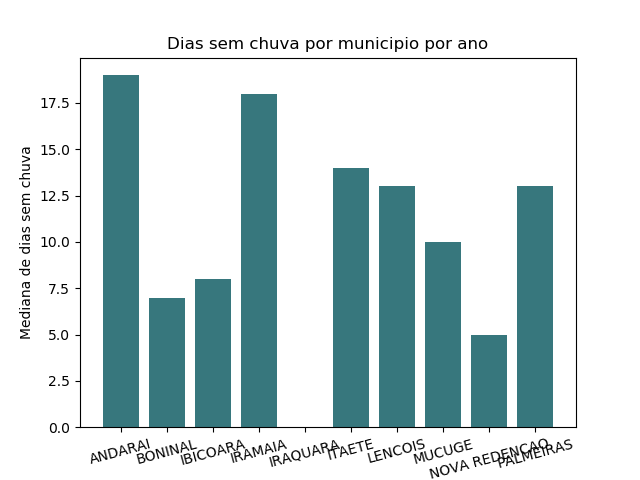
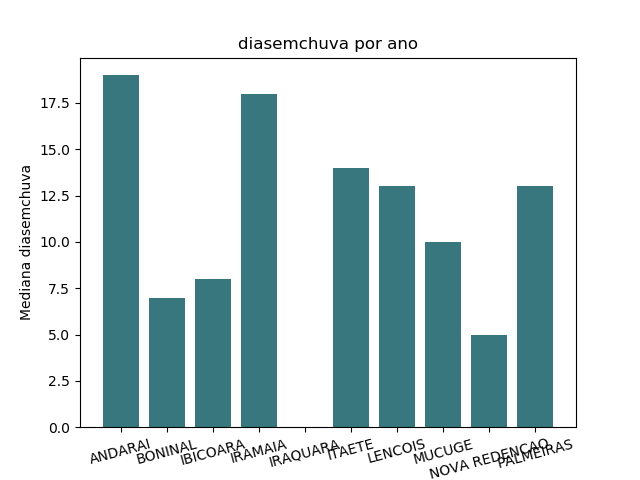
Add plot_Automaticas
Add plot_Automaticas

Changed region(s): [[0.25, 0.0625, 0.75, 0.125], [0.0312, 0.3125, 0.0625, 0.7188]]

diff --git a/estacoes/analise_Dados_Meteorologicos_Automaticas.py b/estacoes/analise_Dados_Meteorologicos_Automaticas.py
@@ -1,0 +1,100 @@
+# -- coding: utf-8 --
+"""
+Created on Mon Sep 14 19:26:56 2020
+
+@author: Adlla Katarine
+"""
+
+import pandas as pd
+import matplotlib.pyplot as plt
+import os as aqv
+import numpy as np
+
+
+def main():
+    lista_arquivos = aqv.listdir('.\\automaticas')
+    ano = 2015
+    for arquivo in lista_arquivos:
+        
+        df_Estacao_Lencois = pd.read_csv('.\\automaticas\\' + arquivo)
+        meses(df_Estacao_Lencois, ano)
+        tratarDados(df_Estacao_Lencois)
+        colunas = df_Estacao_Lencois.columns.tolist()
+        colunas.remove(df_Estacao_Lencois.columns[0])
+        colunas.remove(df_Estacao_Lencois.columns[1])
+        colunas.remove('Latitude')
+        colunas.remove('Longitude')
+        
+        for i in range(len(colunas)):
+            plot_map(df_Estacao_Lencois, colunas[i], ano)
+        
+        ano = ano + 1
+
+
+''' Transformando meses para ficar mais legível . '''
+def meses(df_Estacao_Lencois, ano):
+    for i in range(len(df_Estacao_Lencois)):
+        ver = None
+        if(ano < 2019):
+            ver = df_Estacao_Lencois.loc[i ,df_Estacao_Lencois.columns[0]].split('-')
+        else:
+            ver = df_Estacao_Lencois.loc[i ,df_Estacao_Lencois.columns[0]].split('/')
+
+        if ver[1] == '01':
+            df_Estacao_Lencois.loc[i ,df_Estacao_Lencois.columns[0]] = 'JAN'
+        elif ver[1] == '02':
+            df_Estacao_Lencois.loc[i ,df_Estacao_Lencois.columns[0]] = 'FEV'
+        elif ver[1] == '03':
+            df_Estacao_Lencois.loc[i ,df_Estacao_Lencois.columns[0]] = 'MAR'
+        elif ver[1] == '04':
+            df_Estacao_Lencois.loc[i ,df_Estacao_Lencois.columns[0]] = 'ABR'
+        elif ver[1] == '05':
+            df_Estacao_Lencois.loc[i ,df_Estacao_Lencois.columns[0]] = 'MAI'
+        elif ver[1] == '06':
+            df_Estacao_Lencois.loc[i ,df_Estacao_Lencois.columns[0]] = 'JUN'
+        elif ver[1] == '07':
+            df_Estacao_Lencois.loc[i ,df_Estacao_Lencois.columns[0]] = 'JUL'
+        elif ver[1] == '08':
+            df_Estacao_Lencois.loc[i ,df_Estacao_Lencois.columns[0]] = 'AGO'
+        elif ver[1] == '09':
+            df_Estacao_Lencois.loc[i ,df_Estacao_Lencois.columns[0]] = 'SET'
+        elif ver[1] == '10':
+            df_Estacao_Lencois.loc[i ,df_Estacao_Lencois.columns[0]] = 'OUT'
+        elif ver[1] == '11':
+            df_Estacao_Lencois.loc[i ,df_Estacao_Lencois.columns[0]] = 'NOV'
+        elif ver[1] == '12':
+            df_Estacao_Lencois.loc[i ,df_Estacao_Lencois.columns[0]] = 'DEZ'
+        
+''' Trata os dados com valores inconsistentes para NaN. '''
+def tratarDados(df_Estacao_Lencois):
+    df_Estacao_Lencois = df_Estacao_Lencois.replace(-9999.0, np.nan)
+
+
+#criando gráficos
+def plot_map(df_Estacao_Lencois, atributo, ano):
+    mesGeral = ['JAN', 'FEV', 'MAR', 'ABR', 'MAI', 'JUN', 'JUL', 'AGO', 'SET', 'OUT', 'NOV', 'DEZ']
+    mesJUL = ['JAN', 'FEV', 'MAR', 'ABR', 'MAI', 'JUN', 'JUL']
+    
+    media = []
+    mes = []
+    if(ano < 2020):
+        mes = mesGeral
+    else:
+        mes = mesJUL
+
+    for i in mes:
+        df_mes = df_Estacao_Lencois[df_Estacao_Lencois[df_Estacao_Lencois.columns[0]].str.contains(i)]  
+        media.append(df_mes[atributo].median())
+    
+    plt.bar(mes, media, color='#37777D')
+    
+    plt.xticks(mes)
+    plt.ylabel(atributo)
+    plt.title(atributo + ' por mês do ano '+ str(ano))
+    atributo = atributo.replace('/', '-')
+    plt.savefig(atributo + str(ano) +'.png', format='png')
+    
+    plt.close()
+
+if __name__ == '__main__': # chamada da funcao principal
+    main()
